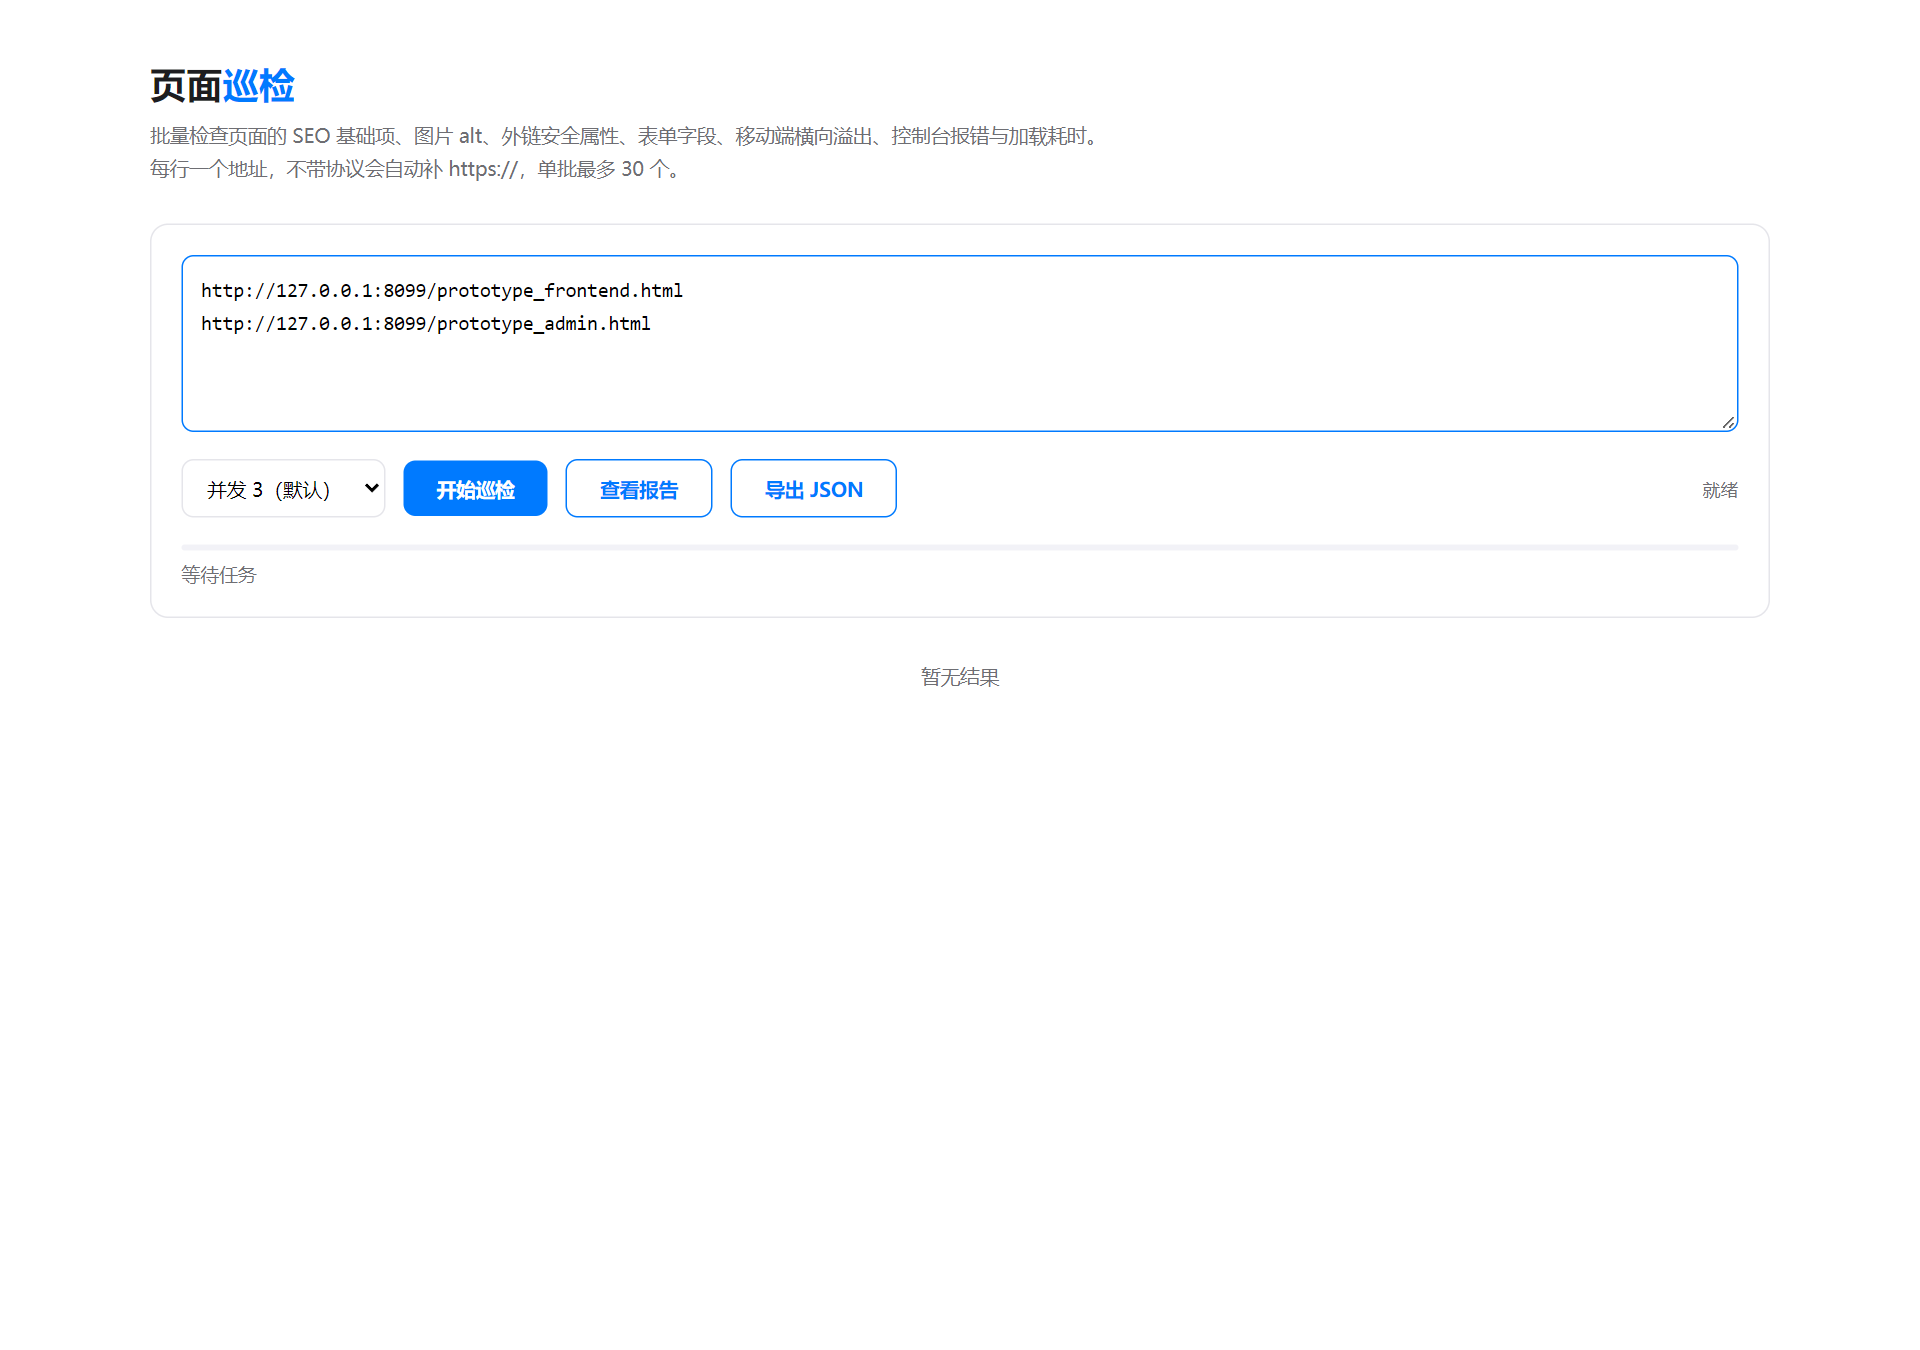
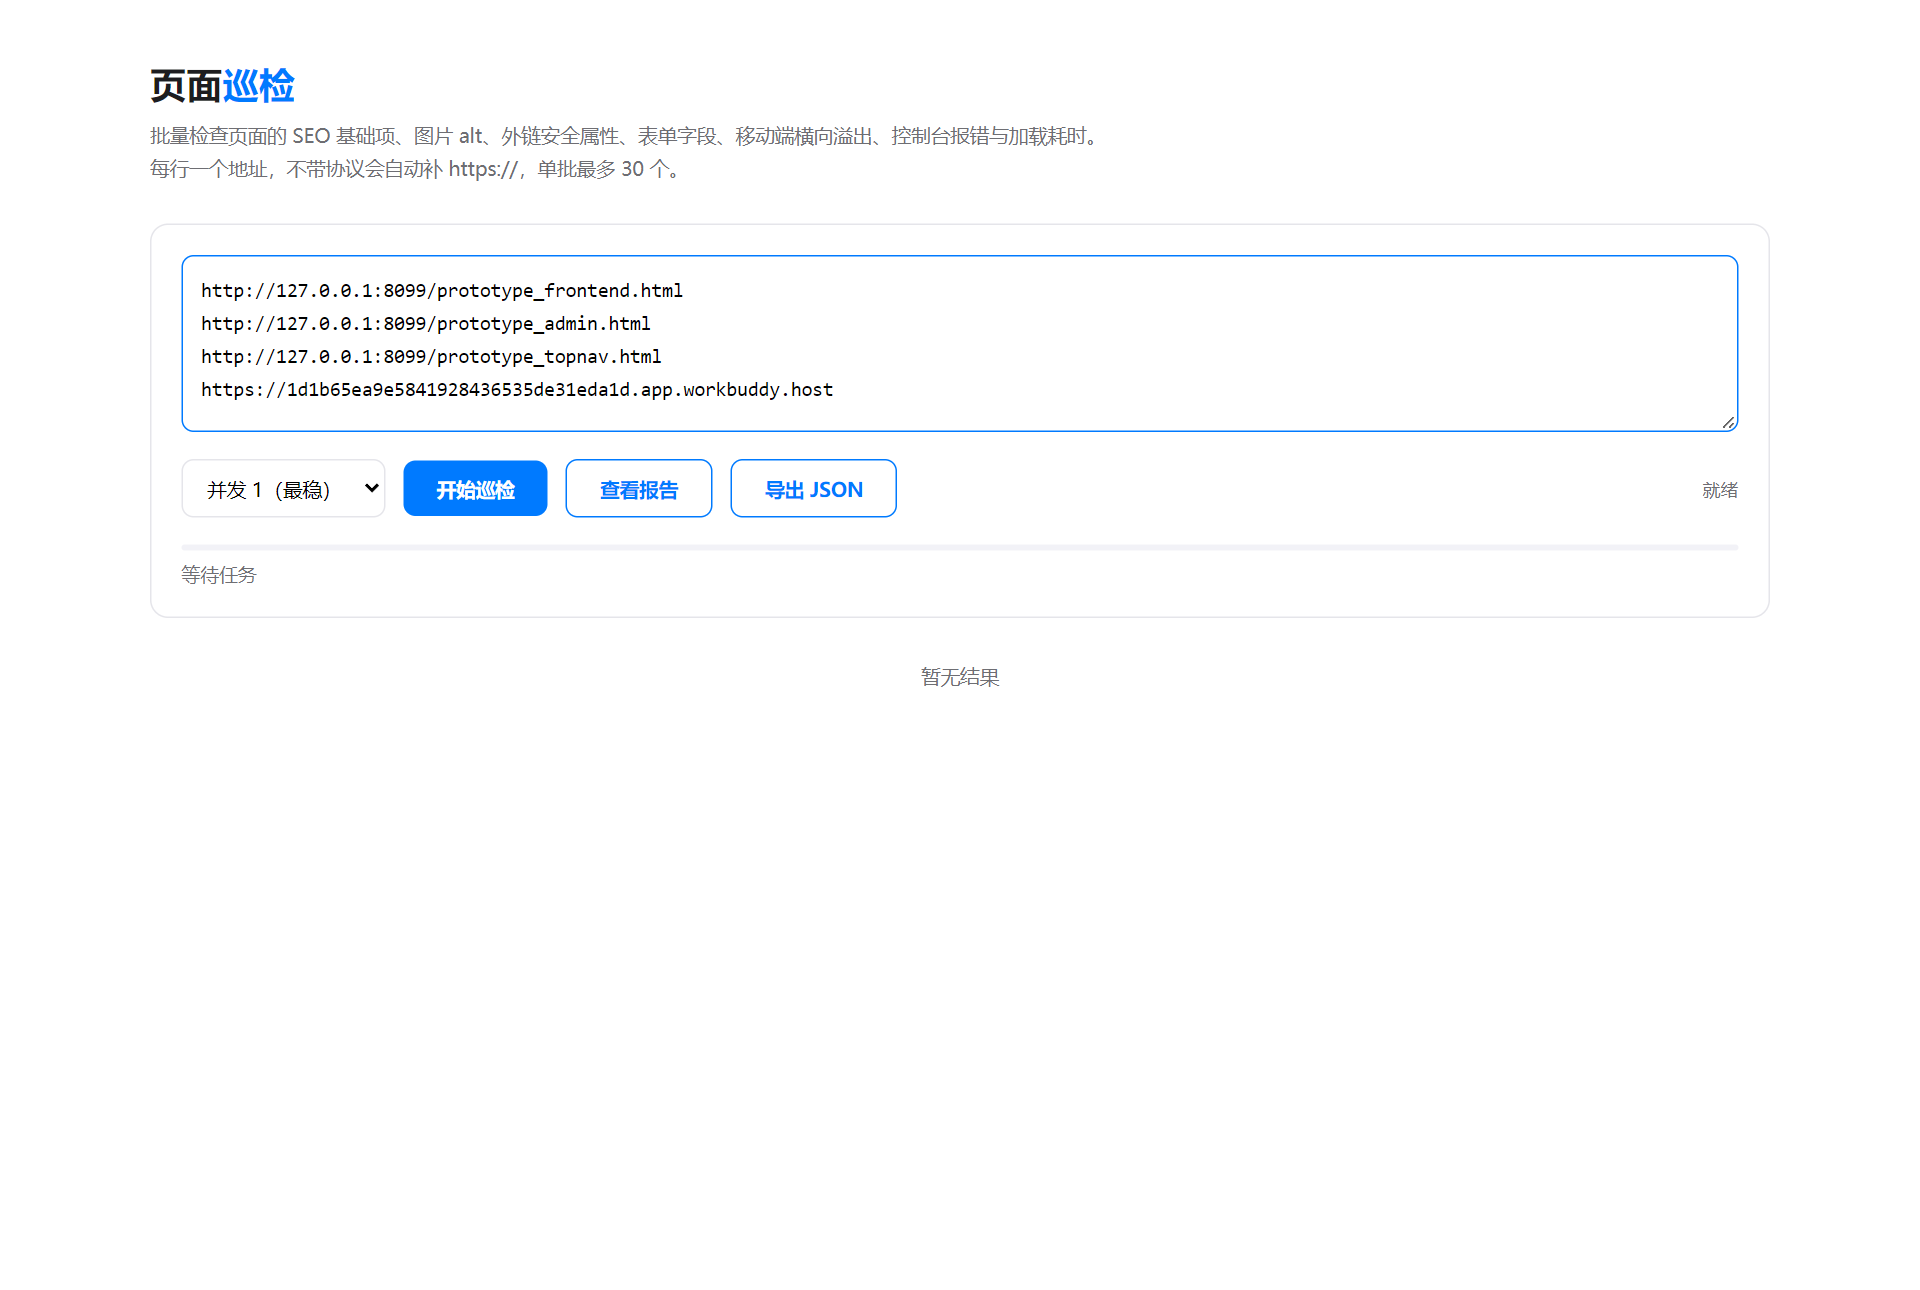
记录并发拖累的实测结论，并发默认改为 1
- 混合重量的批次里并发 2 反而比并发 1 慢 6 倍（轻页面 1.3s -> 20.4s）
- README 增加「已知限制」章节，给出分级调度的改进方向
- UI 并发选项补 1，默认改为最稳的 1

diff --git a/public/index.html b/public/index.html
@@ -50,8 +50,9 @@ www.example.com/about
 www.example.com/courses"></textarea>
     <div class="row">
       <select id="conc">
-        <option value="2">并发 2（稳）</option>
-        <option value="3" selected>并发 3（默认）</option>
+        <option value="1" selected>并发 1（最稳）</option>
+        <option value="2">并发 2</option>
+        <option value="3">并发 3</option>
         <option value="4">并发 4（快）</option>
       </select>
       <button id="run">开始巡检</button>

diff --git a/README.md b/README.md
@@ -80,6 +80,8 @@ node test/self-test.js    # 跑回归断言
 
 这条链路唯一需要调的参数就是并发数。太高会被目标站点限流甚至封 IP，太低则批量任务时间不可接受。信号量只有 20 行，自己写比引 `p-limit` 更可控，也省一个依赖。
 
+但**并发不是越大越好**——实测在混合重量的批次里，并发 2 反而比并发 1 慢 6 倍，详见「已知限制」。
+
 ### 3. 浏览器实例复用，每页独立 Context
 
 启动 Chromium 约 700ms，逐页启停会把总耗时放大一个数量级，所以浏览器全局单例。但每页开独立 `BrowserContext`，避免 cookie / localStorage / 缓存跨页污染，否则后一个页面的指标会被前一个页面的登录态影响。
@@ -149,14 +151,37 @@ node test/self-test.js
 
 ## 实测数据
 
-本机跑 4 个页面（含一个 15,186 个 DOM 节点、776 张图、2.7MB 的线上单页应用）：
+跑 4 个页面（**并发 1**，含一个 15,186 个 DOM 节点、776 张图、2.7MB 的线上单页应用）：
 
 | 页面 | 分数 | 加载 | 检出问题 |
 | --- | --- | --- | --- |
-| 官网前台原型 | 84 | 1.7s | 缺 meta description；H1 重复 3 个；1 个表单字段缺 name |
-| 后台管理原型 | 73 | 1.1s | 缺 meta description；缺 H1；3 个字段缺 name；1 条控制台报错 |
-| 顶部导航原型 | 88 | 3.4s | 缺 meta description |
-| 线上单页应用 | 68 | 18.3s | 缺 H1；6 个字段缺 name；2 条控制台报错；加载偏慢 |
+| 官网前台原型 | 84 | 1.3s | 缺 meta description；H1 重复 3 个；1 个表单字段缺 name |
+| 后台管理原型 | 76 | 0.7s | 缺 meta description；缺 H1；3 个字段缺 name；1 条控制台报错 |
+| 顶部导航原型 | 94 | 2.6s | 缺 meta description |
+| 线上单页应用 | 68 | 8.1s | 缺 H1；6 个字段缺 name；2 条控制台报错；加载偏慢 |
+
+合计 12.7 秒。
+
+---
+
+## 已知限制：固定并发在混合重量下会互相拖累
+
+这是实测出来的，不是猜的。
+
+同一批 4 个页面，只改并发数：
+
+| 并发 | 前台 | 后台 | 导航 | 线上单页 | 合计 |
+| --- | --- | --- | --- | --- | --- |
+| 1 | 1.3s | 0.7s | 2.6s | 8.1s | **12.7s** |
+| 2 | **20.4s** | **20.2s** | **15.1s** | 24.5s | 80s |
+
+轻页面在并发 2 下从 1.3 秒劣化到 20 秒——**慢 15 倍**。而单独跑这 3 个本地页面（并发 2，不带那个重页面）时全部正常（1.5 / 1.2 / 2.3 秒）。
+
+结论：拖慢它们的不是并发本身，是同批里那个 776 张图的重页面。它渲染时占满资源，导致同期在跑的轻页面被挤到超时边缘。
+
+**当前建议**：混有重页面时用并发 1–2，纯静态页面批次可以用 3–4。
+
+**真正的修法**（尚未实现）：按 page weight 分级调度——先跑轻的，重的单独占一个槽位；或者按资源体积动态分配并发。这是个明确的后续改进点，不是「以后再说」。
 
 ---
 
@@ -164,5 +189,6 @@ node test/self-test.js
 
 - 结果落库（现在存进程内存，重启即清空），支持历史对比与趋势
 - 定时任务：每天固定时间跑一轮，只在分数下降时告警
+- 按页面重量分级调度，解决上面那个并发拖累问题
 - 接入 Lighthouse / axe-core，补性能与可访问性的深度检测
 - 多视口截图存档，作为改版前后的视觉对比证据
